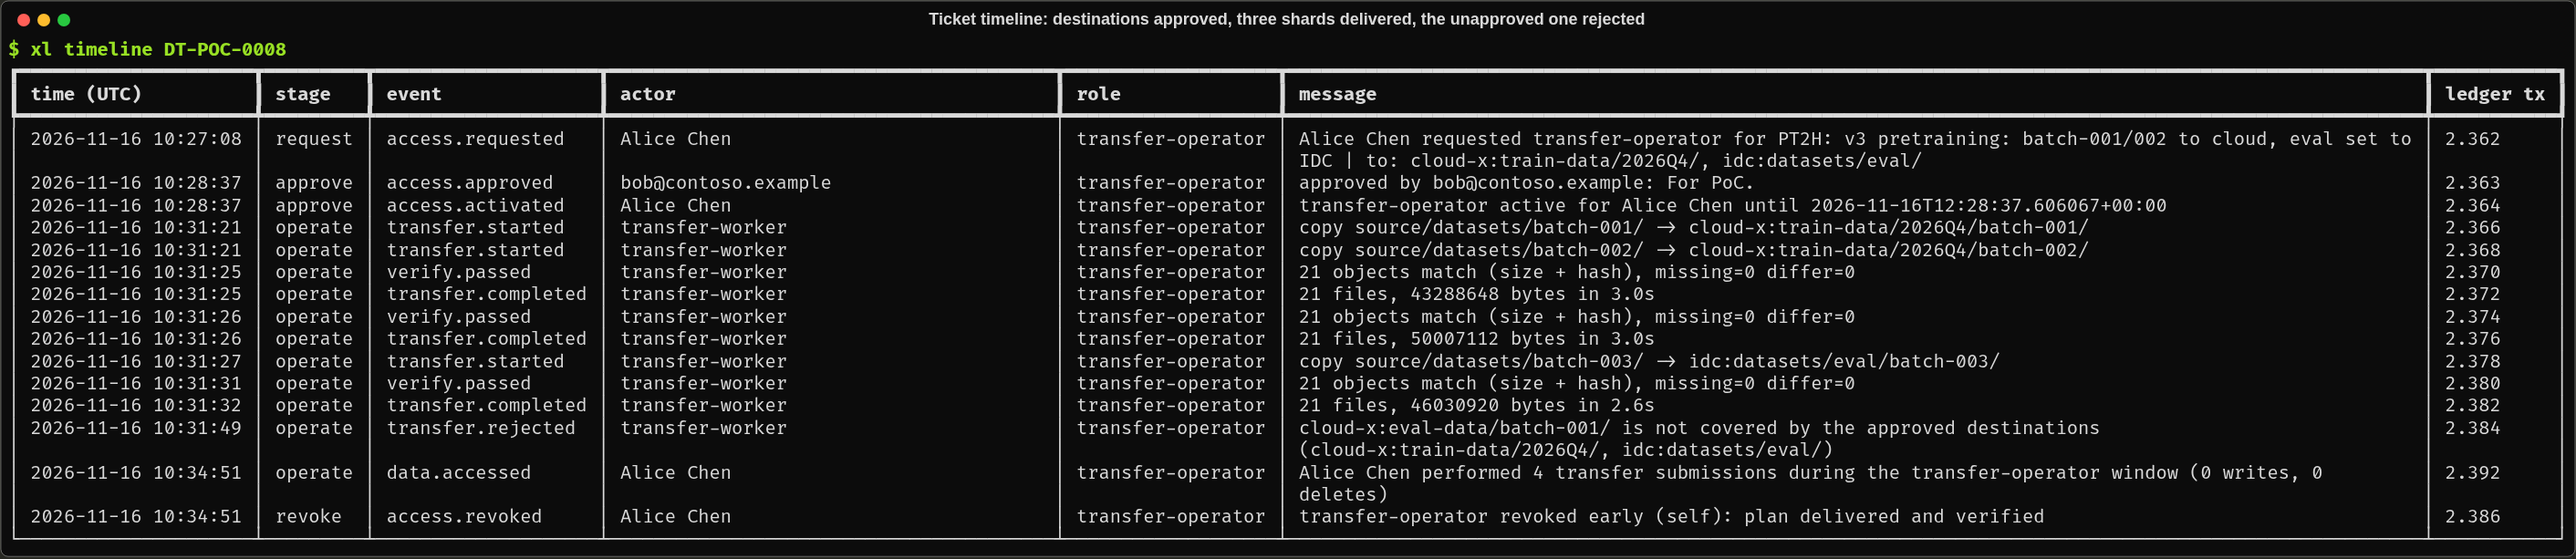
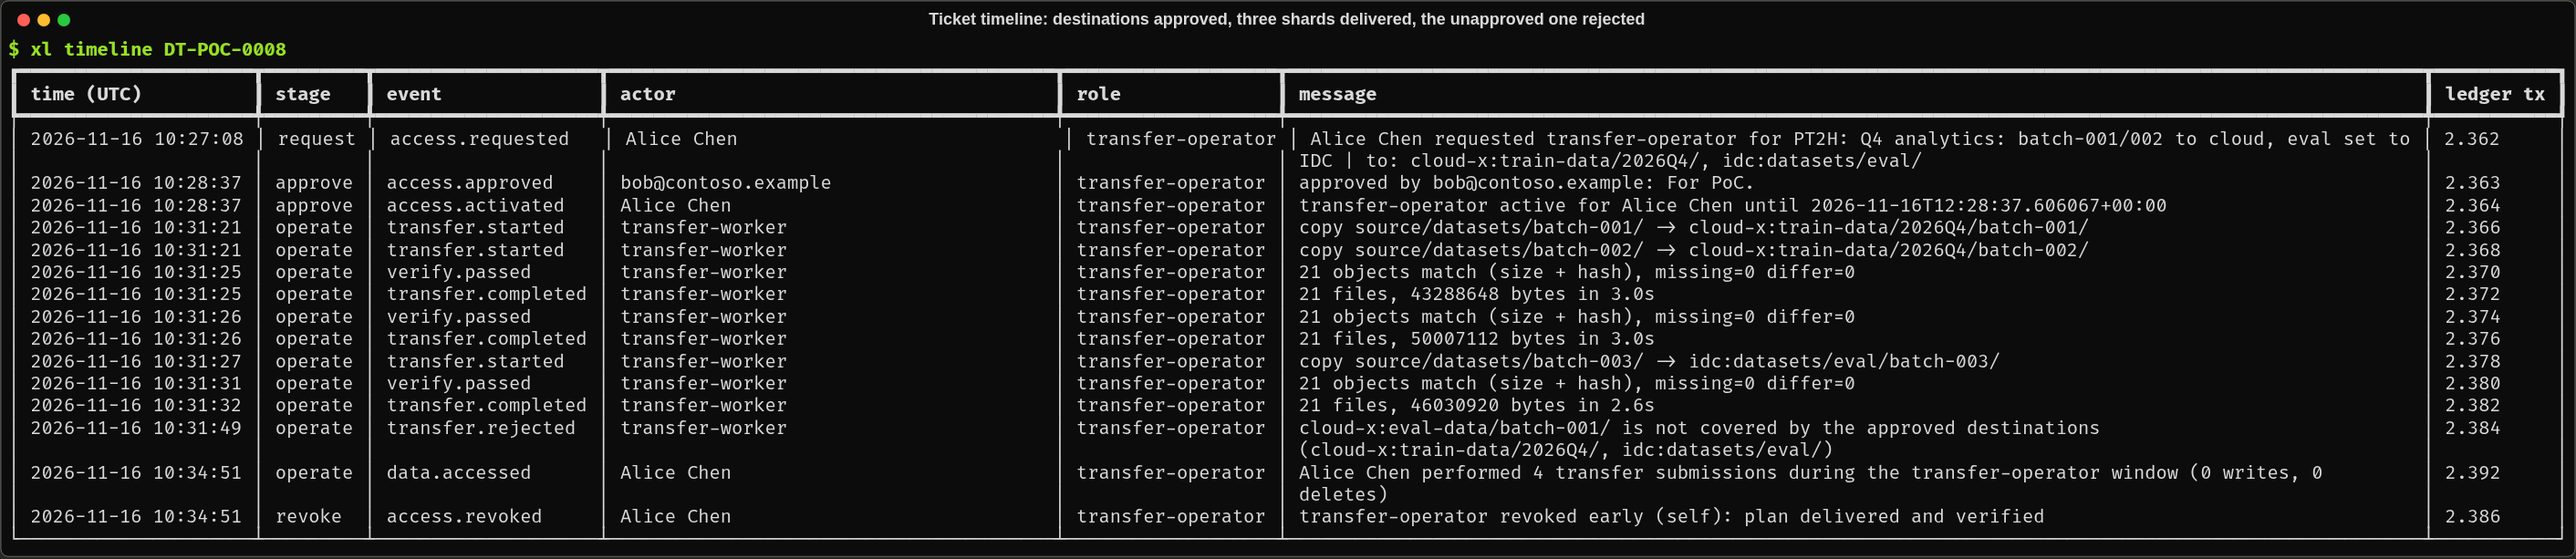
Neutral background wording; sample-data job renamed to seed
- Docs and README describe the scenario generically: business data in an
  overseas Azure region that must be transferred back compliantly. No
  details about how or why the data is there, its nature or its volume;
  throughput estimates are given per 100 TB and example justifications are
  neutral.
- PoC sample-data mechanism renamed to "seed" (job/identity `*-seed`, ticket
  SAMPLE-DATA-<date>, event `dataset.loaded`); comments and help texts updated.
- Screenshots updated to match (terminal SVG/PNG and portal images).
- scripts/portal_redact.py: reusable crop / mask / annotate helper for portal
  screenshots (originals stay in the git-ignored _raw/ folder).

Changed region(s): [[0.4051, 0.217, 0.966, 0.279], [0.0623, 0.217, 0.2805, 0.279]]

diff --git a/app/src/crossledger/seed.py b/app/src/crossledger/seed.py
@@ -1,8 +1,8 @@
-"""PoC only: simulate the data supplier delivering a dataset into the source account.
+"""PoC only: generate a sample dataset in the source account.
 
-Runs as the vendor's managed identity inside the private network and records the
-delivery itself in the ledger (ticket VENDOR-DELIVERY-<yyyymmdd>), so the
-dataset's provenance starts at the moment it lands.
+Runs as a dedicated managed identity inside the private network and records the
+load itself in the ledger (ticket SAMPLE-DATA-<yyyymmdd>), so the dataset's
+provenance starts at the moment it lands.
 """
 
 from __future__ import annotations
@@ -27,7 +27,7 @@ def main() -> int:
     s = settings()
     batches = [b for b in os.environ.get("XL_SEED_BATCHES", "batch-001").split(",") if b]
     files = int(os.environ.get("XL_SEED_FILES", "20"))
-    ticket = os.environ.get("XL_SEED_TICKET") or f"VENDOR-DELIVERY-{utcnow():%Y%m%d}"
+    ticket = os.environ.get("XL_SEED_TICKET") or f"SAMPLE-DATA-{utcnow():%Y%m%d}"
     cc = ContainerClient.from_container_url(f"{s.source_account_url}/{s.source_container}", credential=credential())
     rnd = random.Random(42)
     total_bytes = total_objs = 0
@@ -43,7 +43,7 @@ def main() -> int:
             )
             total_bytes += len(data)
             total_objs += 1
-        meta = json.dumps({"batch": b, "vendor": "sample-vendor", "license": "LIC-0001"}).encode()
+        meta = json.dumps({"batch": b, "source": "sample-generator", "classification": "synthetic"}).encode()
         cc.upload_blob(
             f"{b}/metadata.json",
             meta,
@@ -54,21 +54,21 @@ def main() -> int:
         )
         total_bytes += len(meta)
         total_objs += 1
-        log.info("delivered %s", b)
-    Ledger("vendor").emit(
+        log.info("loaded %s", b)
+    Ledger("seed").emit(
         LedgerEvent(
-            EventType="dataset.delivered",
+            EventType="dataset.loaded",
             Stage="operate",
             TicketId=ticket,
             TimeGenerated=iso(utcnow()),
             EventId=event_id(ticket, ",".join(batches), str(total_bytes)),
             ActorId=os.environ.get("XL_SEED_IDENTITY", ""),
-            ActorName="vendor-delivery",
+            ActorName="sample-data-generator",
             ActorType="ManagedIdentity",
             Scope=s.source_scope,
-            Route=f"vendor -> source/{s.source_container}",
-            Status="Delivered",
-            Message=f"vendor delivered {len(batches)} batches, {total_objs} objects, {total_bytes} bytes",
+            Route=f"sample generator -> source/{s.source_container}",
+            Status="Loaded",
+            Message=f"sample data loaded: {len(batches)} batches, {total_objs} objects, {total_bytes} bytes",
             Details={
                 "batches": batches,
                 "objects": total_objs,

diff --git a/scripts/portal_redact.py b/scripts/portal_redact.py
@@ -1,0 +1,54 @@
+"""Redact and annotate a portal screenshot (crop the browser chrome, mask / replace text, add red marks).
+
+Originals live in docs/images/poc/portal/_raw/ (git-ignored); results go to docs/images/poc/portal/.
+Coordinates are given in the coordinate space the image was *viewed* in and scaled by `scale`
+(e.g. a 2496-px-wide screenshot viewed at 2000 px wide -> scale 2496 / 2000).
+
+    from portal_redact import process, WIDE, ACCOUNT_WIDE
+    process("p6.png", WIDE, crop_top=145, mask=[ACCOUNT_WIDE], boxes=[(345, 455, 840, 490)],
+            labels=[((870, 760), "public access governed by the perimeter")])
+
+Requires Pillow: `uv run --project app --with pillow python ...`.
+"""
+
+from __future__ import annotations
+
+from pathlib import Path
+
+from PIL import Image, ImageDraw, ImageFont
+
+ROOT = Path(__file__).resolve().parents[1]
+RAW = ROOT / "docs/images/poc/portal/_raw"
+OUT = ROOT / "docs/images/poc/portal"
+FONT = "/usr/share/fonts/truetype/dejavu/DejaVuSans.ttf"
+RED = (220, 30, 30)
+WHITE, BLACK, ROWGREY, MASK = (255, 255, 255), (30, 30, 30), (237, 235, 233), (205, 205, 205)
+WIDE = 2496 / 2000  # 2496-px screenshots viewed at 2000 px
+ACCOUNT_WIDE = (1730, 150, 1995, 192)  # portal header: signed-in account + tenant
+TENANT_LEFT = (20, 274, 345, 294)  # "Contoso (<tenant domain>)" under a blade title
+
+
+def process(name, scale, crop_top, mask=(), replace=(), boxes=(), labels=()):
+    """mask: grey blocks; replace: ((x0,y0,x1,y1), text, background); boxes: red frames; labels: red callouts."""
+    im = Image.open(RAW / name).convert("RGB")
+    d = ImageDraw.Draw(im)
+
+    def s(v):
+        return int(round(v * scale))
+
+    for x0, y0, x1, y1 in mask:
+        d.rectangle([s(x0), s(y0), s(x1), s(y1)], fill=MASK)
+    for (x0, y0, x1, y1), text, bg in replace:
+        d.rectangle([s(x0), s(y0), s(x1), s(y1)], fill=bg)
+        f = ImageFont.truetype(FONT, s((y1 - y0) * 0.6))
+        d.text((s(x0) + s(4), s(y0) + s((y1 - y0) * 0.17)), text, fill=BLACK, font=f)
+    for x0, y0, x1, y1 in boxes:
+        d.rectangle([s(x0), s(y0), s(x1), s(y1)], outline=RED, width=max(4, s(4)))
+    for (x, y), text in labels:
+        f = ImageFont.truetype(FONT, s(20))
+        tw = d.textlength(text, font=f)
+        d.rectangle([s(x) - s(6), s(y) - s(4), s(x) + tw + s(6), s(y) + s(28)], fill=RED)
+        d.text((s(x), s(y)), text, fill="white", font=f)
+    im = im.crop((0, s(crop_top), im.width, im.height))
+    im.save(OUT / name, optimize=True)
+    print(name, im.size)

diff --git a/app/tests/test_core.py b/app/tests/test_core.py
@@ -177,8 +177,8 @@ def test_targets_scope_and_approval_binding():
     assert not in_scope(Target.parse("cloud-x:eval-data/2025/"), allow)
     assert not in_scope(Target.parse("cloud-x:train-data-copy/"), allow)  # prefix of a bucket name is not enough
 
-    j = with_targets("v3 pretraining", [Target.parse("cloud-x:train-data/2026Q4/"), Target.parse("idc:datasets/")])
-    assert j == "v3 pretraining | to: cloud-x:train-data/2026Q4/, idc:datasets/"
+    j = with_targets("Q4 analytics", [Target.parse("cloud-x:train-data/2026Q4/"), Target.parse("idc:datasets/")])
+    assert j == "Q4 analytics | to: cloud-x:train-data/2026Q4/, idc:datasets/"
     approved = approved_targets(j)
     assert [str(a) for a in approved] == ["cloud-x:train-data/2026Q4/", "idc:datasets/"]
 

diff --git a/app/src/crossledger/cli.py b/app/src/crossledger/cli.py
@@ -621,7 +621,7 @@ def collect() -> None:
 
 @app.command(hidden=True)
 def seed() -> None:
-    """(job) PoC: simulate the vendor delivering a dataset into the source account."""
+    """(job) PoC: generate a sample dataset in the source account."""
     from . import seed as sd
 
     raise typer.Exit(sd.main())

diff --git a/docs/production.md b/docs/production.md
@@ -2,7 +2,7 @@
 
 > PoC 验证的是**权限 + 数据通道 + 台账**这套机制（结果见 [poc-report.md](poc-report.md)）。本文给出投产时的推荐做法和需要客户确认的事项。
 >
-> ⚠ 本文**不构成法律意见**。跨境数据流动涉及数据来源国与中国两侧的法规（如个人信息保护、数据出境/入境、重要数据识别、出口管制，以及供应商合同中的许可条款），请在投产前由客户法务和合规团队确认。
+> ⚠ 本文**不构成法律意见**。跨境数据流动涉及数据来源国与中国两侧的法规（如个人信息保护、数据出境/入境、重要数据识别、出口管制，以及数据相关合同中的许可条款），请在投产前由客户法务和合规团队确认。
 
 ## 1. 目标形态
 
@@ -54,15 +54,17 @@ flowchart LR
 | 目的地凭证 | 不涉及 | 在搬运机上配置 | 集中保存在 Key Vault，worker 运行时读取 |
 | 校验与来源证明 | `rclone check`（本人执行）| 同左，结果需手动归档 | 自动 `rclone check` + manifest，结果写入台账 |
 
-建议：**研发按需取数用场景 A；首批 300 TB 和周期性增量优先用托管组件**，源存储可以保持完全私有，数据团队也无需持有读权限。详见 [rclone.md](rclone.md) 和 [architecture.md](architecture.md) 第 5.2 节。
+建议：**研发按需取数用场景 A；首批全量和周期性增量优先用托管组件**，源存储可以保持完全私有，数据团队也无需持有读权限。详见 [rclone.md](rclone.md) 和 [architecture.md](architecture.md) 第 5.2 节。
 
-## 4. 300 TB 的吞吐与时间估算
+## 4. 吞吐与时间估算
 
-| 有效带宽 | 理论时长（300 TB）| 按 70% 链路利用率 |
+每 100 TB 所需时间（按比例换算到实际数据量）：
+
+| 有效带宽 | 理论时长（每 100 TB）| 按 70% 链路利用率 |
 |---|---|---|
-| 1 Gbps | ≈ 28 天 | ≈ 40 天 |
-| 5 Gbps | ≈ 5.6 天 | ≈ 8 天 |
-| 10 Gbps | ≈ 2.8 天 | ≈ 4 天 |
+| 1 Gbps | ≈ 9.3 天 | ≈ 13 天 |
+| 5 Gbps | ≈ 1.9 天 | ≈ 2.6 天 |
+| 10 Gbps | ≈ 22 小时 | ≈ 1.3 天 |
 
 建议：
 
@@ -71,14 +73,14 @@ flowchart LR
 - **并发**：`--transfers 32 --checkers 32` 起步，大对象可调 `--azureblob-chunk-size`
 - **托管组件的吞吐**：数据流经 worker，单个分片的带宽受 Container Apps 规格限制。大批量时把分片切小、提高 `transfer_parallelism`，或把 Job 放到 **Dedicated 工作负载配置文件**（更大的 CPU / 网络规格）；NAT Gateway 单个公网 IP 支持的并发连接数也需要纳入评估
 - **源账号上限**：Azure 标准存储账号的出口带宽在大多数区域足以支撑 10 Gbps 级别；必要时把源数据分布到多个账号
-- **小文件**：海量小文件（< 1 MB）会显著拖慢传输，建议供应商交付时打包成 tar / WebDataset / Parquet 分片
+- **小文件**：海量小文件（< 1 MB）会显著拖慢传输，建议在源端先打包成 tar / WebDataset / Parquet 分片
 - **离线方案**：如果网络带宽不足，可以评估 **Azure Data Box 的数据导出**，导出支持、跨境寄运和清关条件需要提前与 Microsoft 确认
 
 ## 5. 成本构成（需用 Azure 定价计算器按实际区域测算）
 
 | 项 | 说明 |
 |---|---|
-| 数据出站流量 | **最大头**。300 TB 从境外区域出站到互联网按流量计费；阶段二改为 ExpressRoute 后，按 Metered 或 Unlimited 计划计费，建议做方案对比 |
+| 数据出站流量 | **最大头**。数据从海外区域出站到互联网按流量计费；阶段二改为 ExpressRoute 后，按 Metered 或 Unlimited 计划计费，建议做方案对比 |
 | 存储 | 源端（传输完成后可转为 Cool/Cold/Archive）|
 | 存储事务 | 列举、读取操作；海量小文件时不可忽略 |
 | Network Security Perimeter | 以官方定价为准 |
@@ -103,7 +105,7 @@ flowchart LR
 - [ ] 用 **Microsoft Purview** 登记源数据集
 - [ ] Terraform 状态存放在启用版本控制的远程后端（Azure Storage backend），通过 GitHub Actions 的 OIDC 联合身份部署
 - [ ] 为数据团队启用 **Access Reviews**，定期复核资格（eligible）是否仍然需要
-- [ ] 供应商许可证、数据分类结果和出入境评估材料，作为附件关联到台账的工单号
+- [ ] 数据许可、数据分类结果和出入境评估材料，作为附件关联到台账的工单号
 
 ## 7. 与客户现有流程的对接
 

diff --git a/docs/deployment.md b/docs/deployment.md
@@ -50,7 +50,7 @@ cp infra/terraform.tfvars.example infra/terraform.tfvars   # 该文件已被 .gi
 | `ledger_retention_days` | `2555` | WORM 保留期（约 7 年）|
 | `ledger_immutability_locked` | `false` | 锁定 WORM 策略。**锁定后不可逆**，PoC 请保持 `false` |
 | `vnet_cidr` | `10.60.0.0/16` | 方案 VNet 的地址空间（/23 给 Container Apps，/24 给 Private Endpoint）|
-| `seed_batches` | `batch-001,batch-002,batch-003` | PoC：vendor Job 生成的样例批次 |
+| `seed_batches` | `batch-001,batch-002,batch-003` | PoC：seed Job 生成的样例批次 |
 | `eligibility_mode` | `group` | `group` = 资格授予 data-team 组（推荐，增删人员无需重新部署；但 PIM 识别新加入的成员可能有较长延迟）；`user` = 资格展开到每个成员，立即生效 |
 | `log_retention_days` | `90` | Log Analytics 交互式保留期 |
 | `ledger_table_total_retention_days` | `2556` | `XLedger_CL` 的总保留期（含长期保留）|
@@ -73,7 +73,7 @@ az account set -s <subscription-id>
 部署完成后：
 
 ```bash
-./scripts/seed-data.sh      # 运行 vendor Job（在 VNet 内，用供应商托管身份）在源账号中生成样例批次
+./scripts/seed-data.sh      # 运行 seed Job（在 VNet 内，用专用托管身份）在源账号中生成样例批次
 cd app && uv run xl roles   # 检查自己的资格
 ```
 
@@ -84,7 +84,7 @@ cd app && uv run xl roles   # 检查自己的资格
 | 资源组 | 资源 |
 |---|---|
 | `rg-<prefix>-<sfx>-source` | 源存储账号 `<prefix><sfx>src`（容器 `datasets`，开启版本控制与软删除）|
-| `rg-<prefix>-<sfx>-gov` | VNet `vnet-*`（`snet-cae` 子网接入 Container Apps，`snet-pe` 子网放 4 个 Blob Private Endpoint）+ Private DNS `privatelink.blob.core.windows.net` · 控制账号 `<prefix><sfx>ctl`（容器 `collector-state`）· 审计账号 `<prefix><sfx>audit`（WORM 容器 `ledger`）· Log Analytics `log-*` · DCE/DCR · Confidential Ledger `acl-*` · ACR · Container Apps 环境 `cae-*` · Job `job-*-collector` / `job-*-vendor`（PoC）· 托管身份 · Workbook · `perimeter` 模式下的 NSP `nsp-*` · 告警规则 `alert-*-ledger` · 可选组件：Service Bus `sb-*`、Job `job-*-transfer`、Key Vault `kv-*`、NAT Gateway `ng-*` + 固定公网 IP `pip-*-egress` |
+| `rg-<prefix>-<sfx>-gov` | VNet `vnet-*`（`snet-cae` 子网接入 Container Apps，`snet-pe` 子网放 4 个 Blob Private Endpoint）+ Private DNS `privatelink.blob.core.windows.net` · 控制账号 `<prefix><sfx>ctl`（容器 `collector-state`）· 审计账号 `<prefix><sfx>audit`（WORM 容器 `ledger`）· Log Analytics `log-*` · DCE/DCR · Confidential Ledger `acl-*` · ACR · Container Apps 环境 `cae-*` · Job `job-*-collector` / `job-*-seed`（PoC）· 托管身份 · Workbook · `perimeter` 模式下的 NSP `nsp-*` · 告警规则 `alert-*-ledger` · 可选组件：Service Bus `sb-*`、Job `job-*-transfer`、Key Vault `kv-*`、NAT Gateway `ng-*` + 固定公网 IP `pip-*-egress` |
 | Entra ID | 安全组 `<prefix>-it-ops-<sfx>`、`<prefix>-data-team-<sfx>`、`<prefix>-auditors-<sfx>` |
 | PIM | 每个数据角色一份角色管理策略 + 资格分配（`source-reader`；启用托管搬运时还有 `transfer-operator`）|
 | 订阅 | 诊断设置：Activity Log → Log Analytics |

diff --git a/docs/rclone.md b/docs/rclone.md
@@ -1,4 +1,4 @@
-# 用 rclone 获取海外训练数据（研发 / 数据团队指南）
+# 用 rclone 获取海外数据（研发 / 数据团队指南）
 
 > 默认的数据通道是**自助拉取**：研发或数据人员用 [rclone](https://rclone.org/)，以**自己的 Entra ID 身份**读取海外源数据。读权限只在 PIM 申请获批后的时间窗口内有效，窗口内的每一次读取都会被 Azure 记录，并按工单号汇总进台账。全程不需要密钥、SAS 或任何共享账号。
 
@@ -7,7 +7,7 @@
 | | 场景 A：研发开发机 / 开发容器 | 场景 B：数据团队批量搬运 |
 |---|---|---|
 | 在哪里 | 国内公有云开发机 / 开发容器 | 国内云上的一台搬运机或批处理任务 |
-| 做什么 | 按需拉取部分训练数据到容器本地或共享盘 | 把成批数据搬到国内云的对象存储（S3 兼容）|
+| 做什么 | 按需拉取部分数据到本地或共享盘 | 把成批数据搬到国内云的对象存储（S3 兼容）|
 | rclone 目标 | 本地路径 | S3 兼容对象存储（各云厂商在 rclone 中都有现成的 provider）|
 | 申请的角色 | `source-reader` | `source-reader` |
 
@@ -55,7 +55,7 @@ secret_access_key = ...
 
 ```bash
 # ① 申请（工单号是台账主键，同一件事用同一个工单号）
-xl request source-reader -t DT-2026-0123 -r "v3 预训练：拉取 batch-001～010" --hours 4
+xl request source-reader -t DT-2026-0123 -r "Q4 数据分析：拉取 batch-001～010" --hours 4
 #    → IT 运维在 PIM 中审批
 
 # ② 操作
@@ -101,7 +101,7 @@ revoke   access.revoked / access.expired
 
 ## 7. 大批量搬运的建议
 
-- 300 TB 级别建议在国内云上专门开一台**带宽充足的搬运机**（或多台按目录分工），不要在开发机 / 开发容器里做
+- 数百 TB 级别建议在国内云上专门开一台**带宽充足的搬运机**（或多台按目录分工），不要在开发机 / 开发容器里做
 - 并发：`--transfers 32 --checkers 32` 起步，根据出口带宽调整；对象很大时可以加 `--azureblob-chunk-size`
 - 搬运时间可能超过单次授权时长：
   - 推荐由 IT 为数据团队单独配置一个**批量搬运角色**（例如最长 72 小时，仍需审批）
